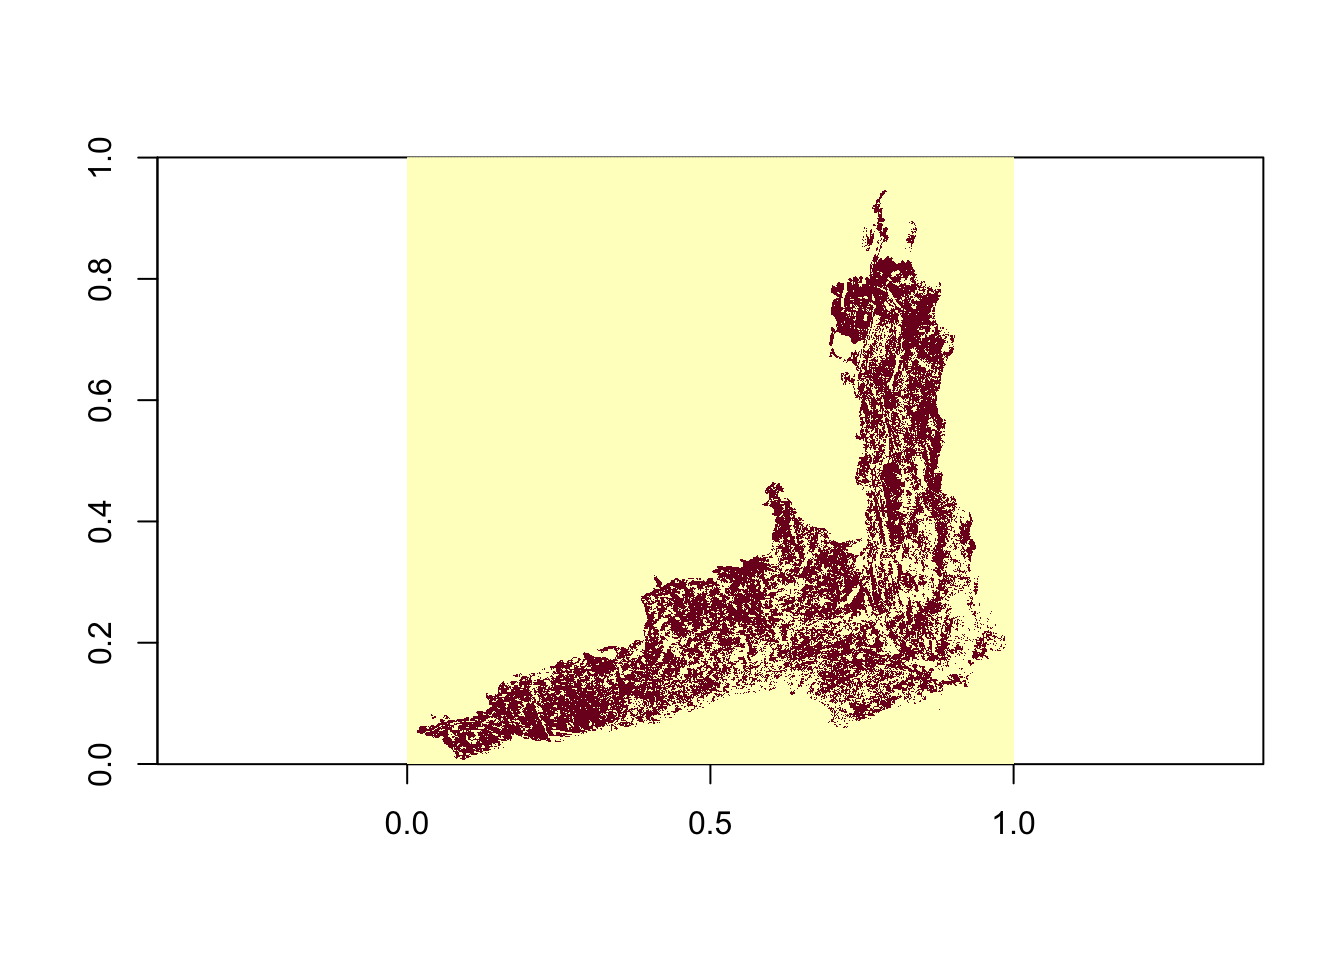
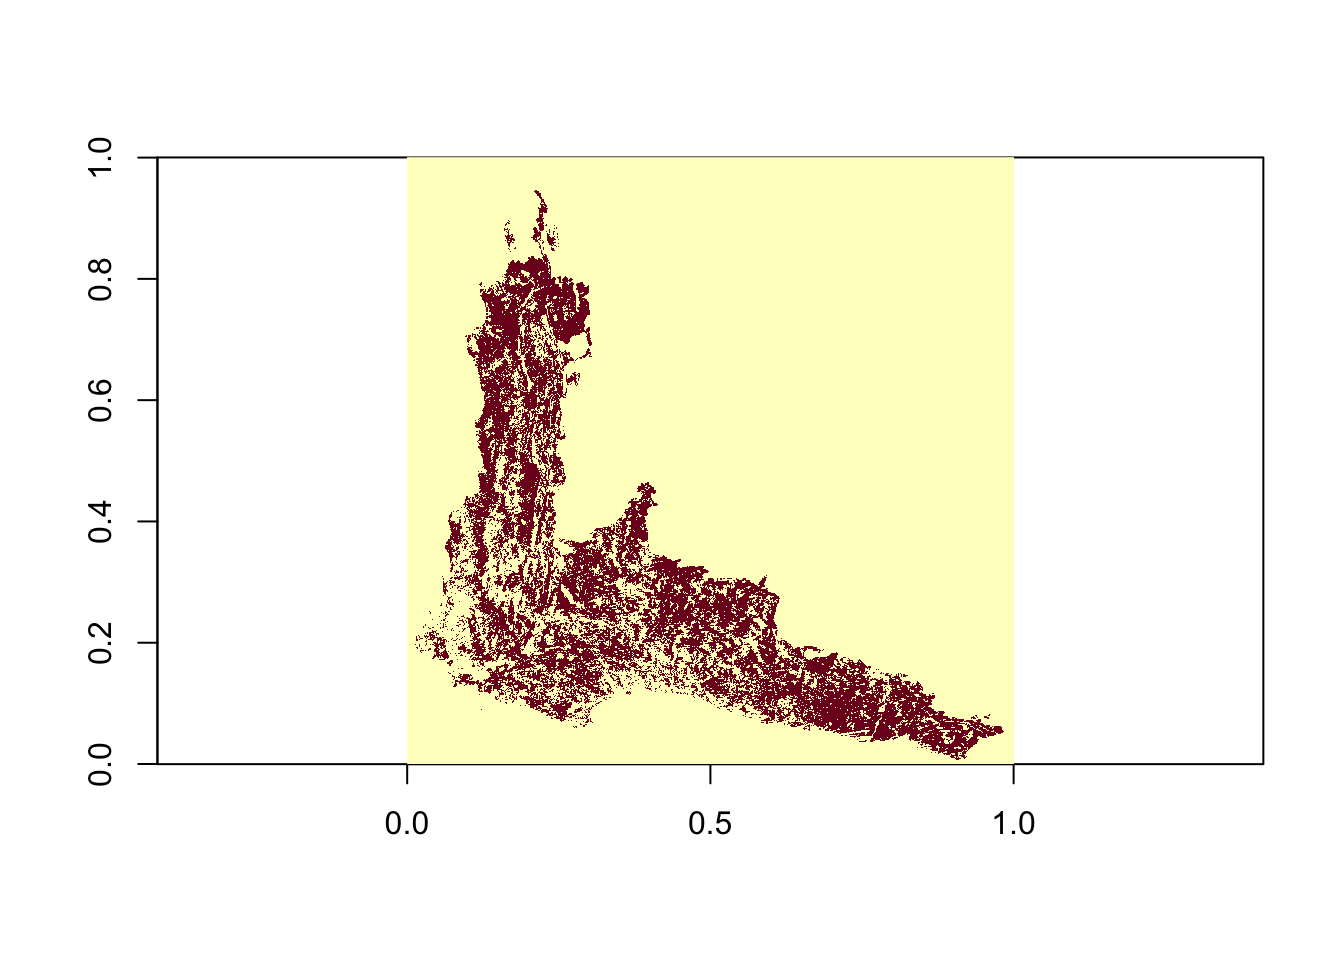
test

Changed region(s): [[0.3125, 0.2188, 0.75, 0.8125]]

diff --git a/docs/index.html b/docs/index.html
@@ -1004,10 +1004,8 @@ for(m in 1:1634){
   }
 }
 
-image(combine_mask,asp=1)</code></pre>
+image(combine_mask[nrow(combine_mask):1,],asp=1)</code></pre>
 <p><img src="index_files/figure-html/unnamed-chunk-28-1.png" width="672" /></p>
-<pre class="r"><code>print(total_valid_count)</code></pre>
-<pre><code>## [1] 517642</code></pre>
 <p>Here we extract the time-series data from the selected pixels and
 combine them into two arrays.</p>
 <pre class="r"><code>total_dataset &lt;- array(dim = c(total_valid_count,12,7))
